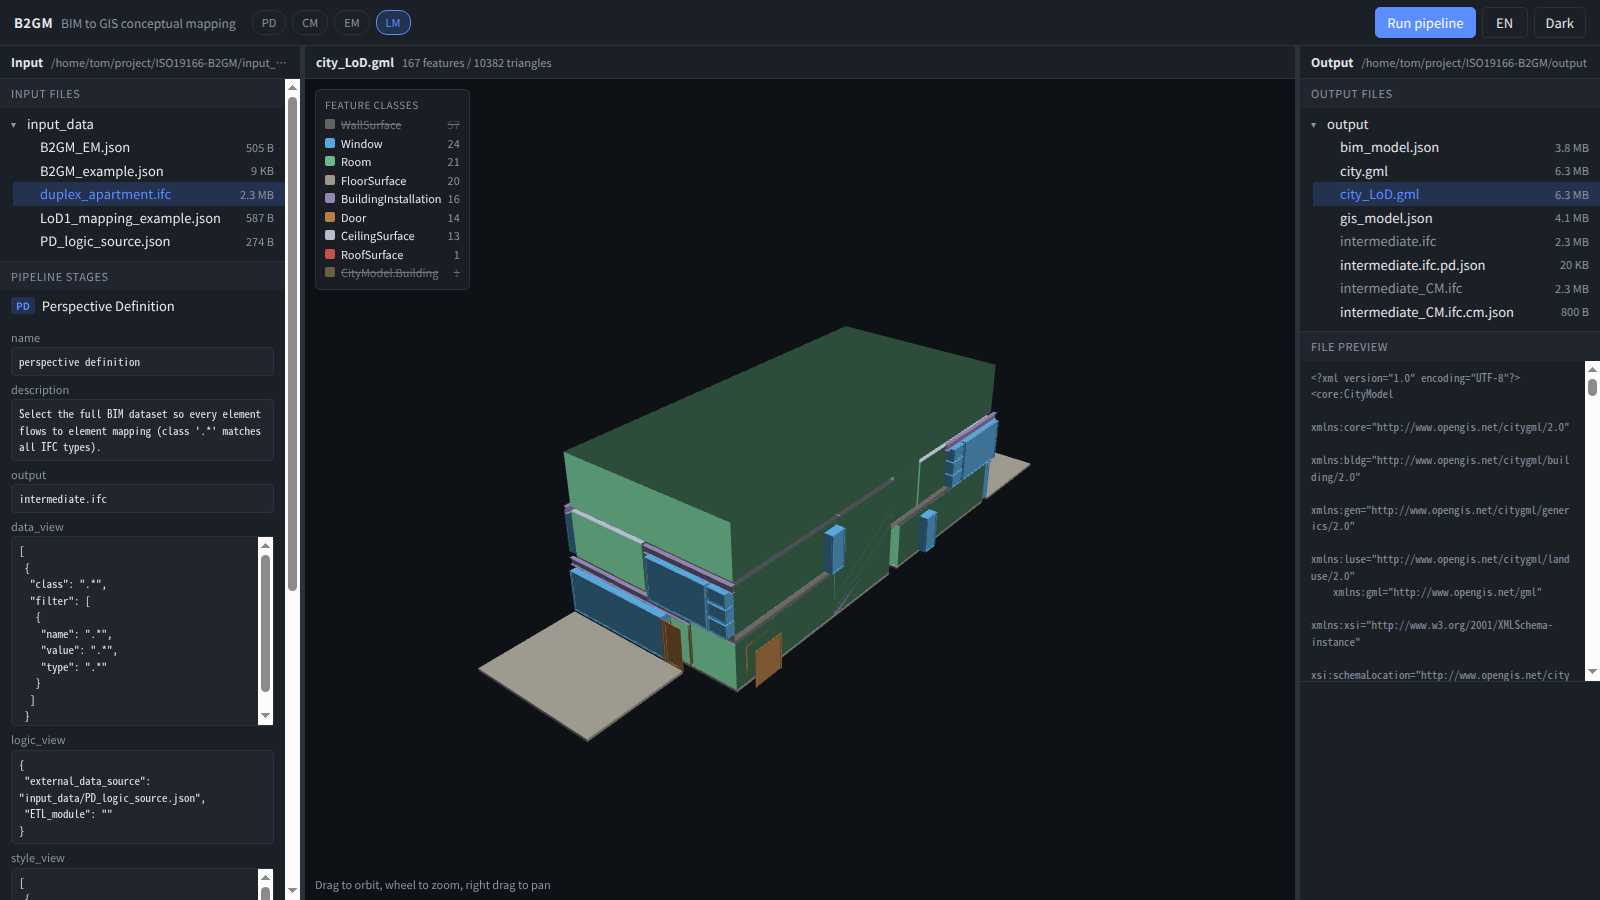
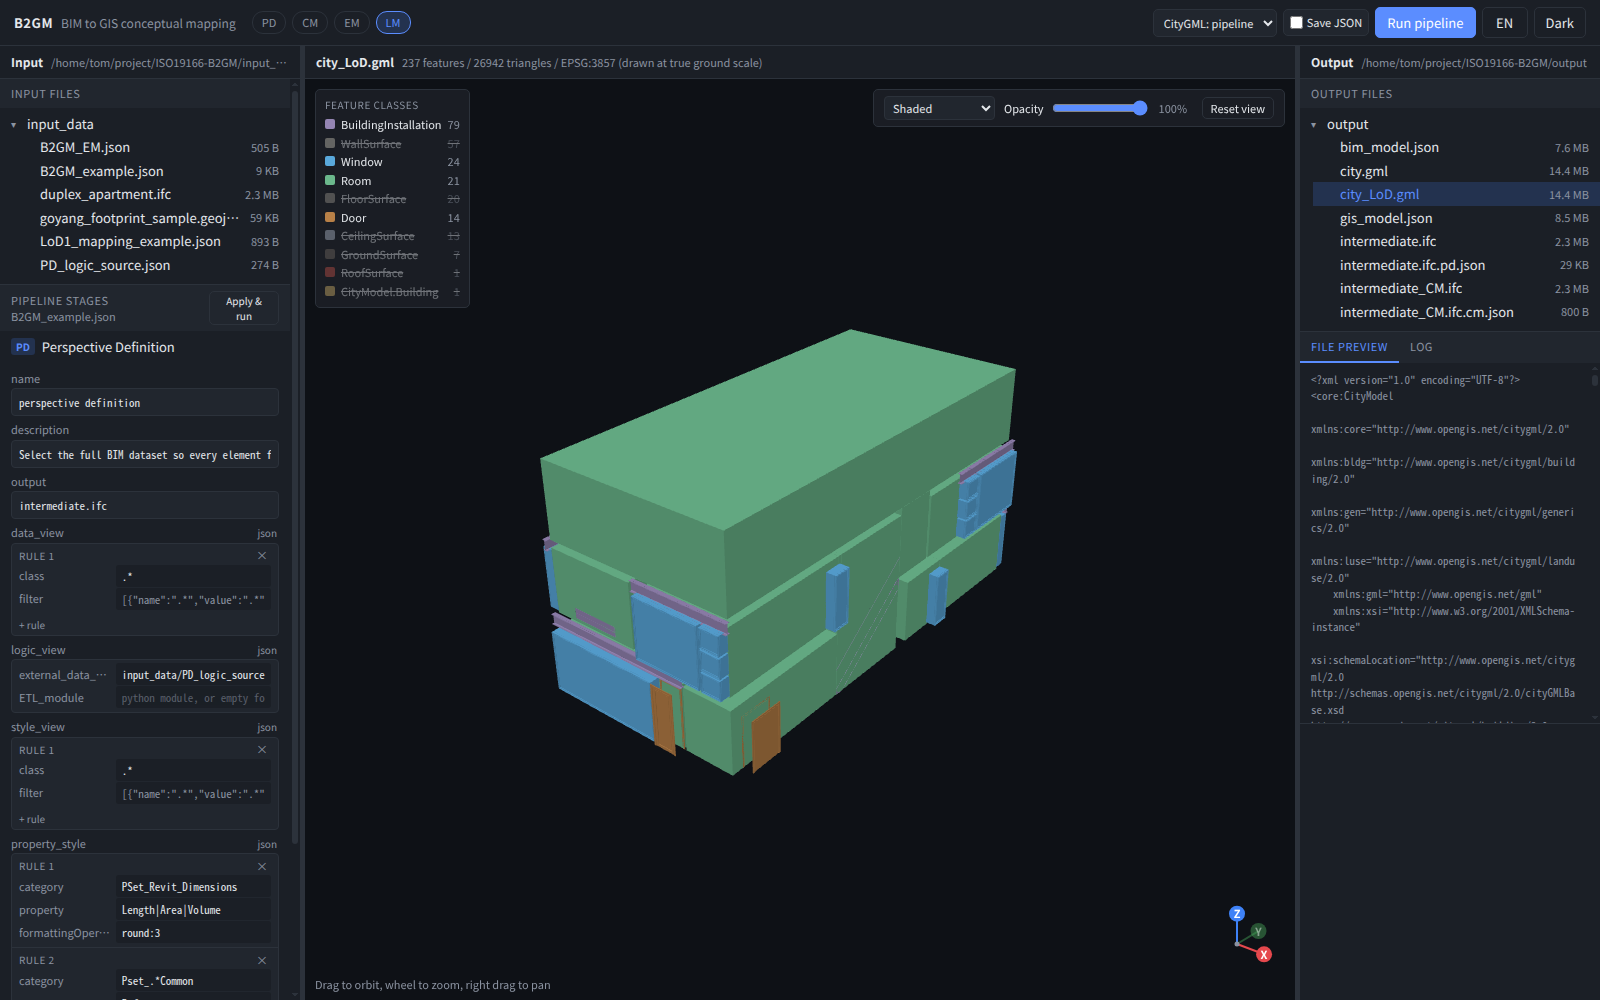
release 0.2.1: reorganise the readme around current screenshots

diff --git a/README.md b/README.md
@@ -2,17 +2,37 @@
 
 [![tests](https://github.com/mac999/ISO19166-B2GM/actions/workflows/tests.yml/badge.svg)](https://github.com/mac999/ISO19166-B2GM/actions/workflows/tests.yml)
 
+An implementation of the [ISO/TS 19166 B2GM](https://www.iso.org/standard/90943.html)
+conceptual framework: a BIM model (IFC) is mapped into a GIS model (CityGML)
+through four rule-driven stages. The rules live in a JSON file whose vocabulary
+follows the standard's UML, the output validates against the official OGC
+CityGML 2.0 and 3.0 schemas, and a browser workspace shows the source, the
+rules and the result side by side.
+
 Written by the project leader of ISO/TS 19166. This is a personal
 implementation, not an official ISO or ISO/TC 211 deliverable and not a
-conformance certification.
-
-An implementation of the [ISO/TS 19166 B2GM](https://www.iso.org/standard/90943.html) conceptual framework: mapping a BIM model (IFC) into a GIS model (CityGML) through four well-defined stages. In fact, I thought there were issues with practical application because standards like ISO often only have standard documents without providing tools. Taking this into consideration, I plan to continue updating it whenever I have time. 
+conformance certification. Standards such as this one usually ship as a document
+without a tool, which makes them hard to try out; this repository is meant to
+close that gap. If you are interested, fork and join.
 
 <p align="center">
- <img src="./doc/fig6.png" height="150"></img>
+  <img src="./doc/webview.png" width="900" alt="B2GM web view: input tree and pipeline stages on the left, the mapped CityGML model in the middle, output tree and file preview on the right"></img>
 </p>
 
-If you are interested in this project, please fork and join.
+## Contents
+
+1. [How the mapping works](#how-the-mapping-works)
+2. [Quick start](#quick-start)
+3. [What comes out](#what-comes-out)
+4. [Web view](#web-view)
+5. [Configuring the mapping](#configuring-the-mapping)
+6. [Scope](#scope)
+7. [Documentation](#documentation)
+8. [For developers](#for-developers)
+9. [Revision history](#revision-history)
+10. [Citation and author](#citation-and-author)
+
+## How the mapping works
 
 ```
  IFC (BIM)  ──►  PD  ──►  CM  ──►  EM  ──►  LM  ──►  CityGML (GIS)
@@ -26,31 +46,25 @@ If you are interested in this project, please fork and join.
 | PD    | Perspective Definition  | Select the required subset of the BIM dataset (data/logic/style views) |
 | CM    | Coordinate Mapping      | Transform source CRS → destination CRS (e.g. EPSG:4326 → EPSG:3857) |
 | EM    | Element Mapping         | Map an IFC class to its GIS/CityGML class (e.g. `IfcBuilding` → `CityModel.Building`) |
-| LM    | LoD Mapping             | Assign a GIS Level-of-Detail (LOD0…LOD4)                        |
+| LM    | LoD Mapping             | Assign a GIS Level-of-Detail (LOD0…LOD4) and regenerate the geometry with the Table 8 operators |
 
-
+Each stage reads its rules from the pipeline file and writes an intermediate
+file, so a run can be inspected stage by stage. The concept figures below are
+from the standard's development.
 
 <p align="center">
+<img src="./doc/fig6.png" height="150"></img> </br>
 <img src="./doc/fig1.JPG" height="240"> </img>  </br>
 <img src="./doc/fig5.png" height="150"> </img>
 <img src="./doc/fig4.png" height="150"> </img>  </br>
 <img src="./doc/fig7.png" height="205"> </img> </br>
-<img src="./doc/fig2.JPG" height="270"> </img> 
-</p>
-
-The pipeline also ships with a browser workspace: the input tree and the
-PD/CM/EM/LM stage properties on the left, a WebGL canvas in the middle and the
-output tree on the right. Drop an IFC on the canvas to convert it, or edit a
-stage rule and run it again. Clicking a class in the legend hides it, which is
-how you look inside the result. See [Web view](doc/web-view.md).
-
-<p align="center">
-  <img src="./doc/webview.png" width="900" alt="B2GM web view: input tree and pipeline stages, 3D canvas, output tree"></img>
-  </br>
-  <img src="./doc/webview_rooms.png" width="900" alt="The same model with the building block and wall surfaces hidden, showing the LOD1 room solids"></img>
+<img src="./doc/fig2.JPG" height="270"> </img>
 </p>
 
 ## Quick start
+
+Python 3.10 or newer. The core dependencies are ifcopenshell, pyproj, shapely,
+numpy and tqdm.
 
 ```bash
 git clone https://github.com/mac999/ISO19166-B2GM.git
@@ -62,9 +76,89 @@ python B2GM_main.py --web                     # browser workspace on localhost
 python -m pytest
 ```
 
-Results land under `output/`. Python 3.10 to 3.13 are exercised in CI; the
-sample is IFC2X3 and the test suite also runs an IFC4 model through every stage.
-A live copy of the web view runs at https://iso19166-b2gm-mac999.fly.dev.
+`pip install .` adds the `b2gm`, `b2gm-web`, `b2gm-em` and `b2gm-lm` console
+commands; `run_pipeline.sh` / `.bat` and `run_web.sh` / `.bat` are launchers for
+a clone. A live copy of the web view runs at
+https://iso19166-b2gm-mac999.fly.dev, where you can drop your own IFC on the
+canvas.
+
+Optional packages switch on more: `manifold3d` for the 3D boolean operators,
+`xmlschema` to validate the output against the OGC schemas, `xsdata` for the
+typed CityGML writer.
+
+## What comes out
+
+With the bundled sample (`input_data/duplex_apartment.ifc`, IFC2X3) and the
+example pipeline, `output/` receives:
+
+| File | Stage | Contents |
+|------|-------|----------|
+| `intermediate.ifc` + `.pd.json` | PD | the selected elements and the perspective summary |
+| `intermediate_CM.ifc` + `.cm.json` | CM | the model placed in the destination CRS; origin, true north and element count |
+| `city.gml` | EM | CityGML with every element mapped to its feature class |
+| `city_LoD.gml` | LM | the same with the LoD assigned and the operator geometry, for example a LOD1 block for the building and one for each room |
+| `bim_model.json`, `gis_model.json` | with `--save-json` | the conceptual models in the shape of the ISO 19166 XSDs |
+
+The CityGML version is a variable, not a build-time choice: `--citygml-version`
+on the command line, `"citygml_version"` in the pipeline file, or the selector in
+the web view. 3.0 keeps the building storeys as `bldg:Storey` features, which
+2.0 has no element for, and writes closed meshes as `gml:Solid`.
+
+## Web view
+
+<p align="center">
+  <img src="./doc/webview_rooms.png" width="900" alt="The same model with the building block and the wall, floor, ceiling and roof surfaces hidden from the legend, leaving the LOD1 room solids, windows and doors"></img>
+</p>
+
+`python B2GM_main.py --web` opens a three-panel workspace on the stdlib HTTP
+server, with no web framework and nothing to install beyond the core
+dependencies.
+
+- Left: the input tree and the pipeline stages. Scalars are plain fields; a
+  rule set is a property grid per rule listing the keys the standard defines
+  for that stage, with fixed choices such as `lod` and `PSet_operation` as
+  drop-downs. **Apply & run** converts the selected IFC with the edited rules.
+- Middle: a WebGL canvas. Drag to orbit, wheel to zoom, right-drag to pan; an
+  axis gizmo snaps the view; six rendering modes (shaded, shaded + edges,
+  wireframe, x-ray, flat + edges, hidden line); the legend hides a feature
+  class on click, which is how you look inside a model. A file with nothing to
+  draw shows its text here instead.
+- Right: the output tree, a file preview and the stage log.
+- Header: the CityGML version, whether to save the JSON models, and the stage
+  chips, which open a stage and show its output on the canvas.
+
+Drop an `.ifc` on the canvas, optionally with a pipeline `.json`, to convert it.
+`?theme=`, `?lang=`, `?mode=`, `?select=` and `?hide=` preset a view so it can be
+shared as a link. See [Web view](doc/web-view.md) for the routes and the
+Fly.io deployment.
+
+<p align="center">
+  <img src="./doc/webview_xray.png" width="900" alt="X-ray rendering of the LoD model in the light theme"></img>
+</p>
+
+## Configuring the mapping
+
+`input_data/B2GM_example.json` defines the stage sequence. A stage carries its
+`type`, an `output` name and its rules:
+
+```json
+{ "type": "EM", "output": "city.gml",
+  "rule": [{ "source": "IfcBuilding", "destination": "CityModel.Building" }] }
+```
+
+```json
+{ "type": "LM", "output": "city_LoD.gml",
+  "rule": [{ "source": "IfcBuilding", "lod": "LOD1", "aggregate": "IfcWall.*",
+             "operation": [{ "op": "footprint" },
+                           { "op": "extrude", "args": { "height": { "$extent": "z" } } }] }] }
+```
+
+Patterns are full-match regular expressions. The PD stage carries data, logic
+and style views and property formatting; CM carries the source and destination
+CRS, an optional transform matrix and origin; EM carries the class mapping and
+the `PSet_operation`; LM carries the LoD and an operator chain over the eleven
+Table 8 operators. [Pipeline configuration](doc/pipeline-configuration.md)
+covers every key.
 
 ## Scope
 
@@ -83,7 +177,8 @@ What this implementation does, stated so it can be checked:
 - The conceptual model classes mirror the ISO 19166 XSDs, and
   `tests/test_xsd_conformance.py` parses those XSDs to check it, so a renamed or
   missing member fails the build.
-- Core dependencies are ifcopenshell, pyproj, shapely, numpy and tqdm. MIT.
+- The parser reads every IfcProduct; which of them are mapped is the PD stage's
+  decision. IFC2X3 and IFC4 input are both exercised by the test suite.
 
 What it is **not**:
 
@@ -91,6 +186,8 @@ What it is **not**:
   conceptual mapping stages; geometry handling is deliberately simple.
 - Not a conformance test suite. The XSD check verifies this implementation, not
   a third party's.
+- CityGML output covers the Building and LandUse modules. Transportation,
+  vegetation, relief and the other thematic modules are out of scope.
 - Geometry is triangulated B-rep. A mesh is written as `gml:Solid` only when it
   actually closes, otherwise as `gml:MultiSurface`.
 - Boolean operators work on 2D geometry, or on 3D via `manifold3d` when
@@ -105,7 +202,17 @@ What it is **not**:
 | [Architecture](doc/architecture.md) | module map, ISO 19166 XSD alignment, saving the conceptual models as JSON |
 | [Web view](doc/web-view.md) | the browser workspace, upload and conversion, deploying to Fly.io |
 
-## Tests
+## For developers
+
+| Module | Role |
+|--------|------|
+| `B2GM_main.py` | pipeline orchestrator and CLI |
+| `B2GM_PD.py`, `B2GM_CM.py`, `B2GM_element.py`, `B2GM_LM.py` | the four stages |
+| `B2GM_LM_operators.py` | the Table 8 operator library |
+| `B2GM_BIM.py`, `B2GM_GIS.py`, `B2GM_citygml3.py` | IFC reader, CityGML 2.0 writer, CityGML 3.0 writer |
+| `B2GM_model.py`, `B2GM_property.py` | the conceptual model mirroring the XSDs |
+| `B2GM_web.py`, `web/` | the web view: HTTP routes, model readers, and the browser side |
+| `XSD/`, `UML/` | the standard's schemas the model classes are checked against |
 
 ```bash
 python -m pytest
@@ -113,18 +220,26 @@ python -m pytest
 
 The suite under `tests/` covers the conceptual model, every stage, the LM
 operator chains, IFC parsing for IFC2X3 and IFC4, CityGML 2.0 and 3.0 document
-structure and the end-to-end pipeline. It runs on GitHub Actions for each push
-and pull request. Tests that need optional dependencies skip when those are
-missing.
+structure, the web routes and the end-to-end pipeline. It runs on GitHub Actions
+for every push and pull request on Python 3.10, 3.12 and 3.13. Tests that need
+optional dependencies skip when those are missing.
+
+Pull requests are welcome. Keep a change to one concern, add a test next to the
+ones that cover that module, and run the suite before pushing.
 
 ## Revision history
 
 | Version | Date | Changes |
 |---------|------|---------|
+| 0.2.1 | 2026-11-08 | The IFC parser reads every product instead of a fixed type list, so furniture, footings, the roof and stair flights now reach the PD stage; the example maps them. Openings whose host has no geometry of its own (skylights in an IfcRoof aggregate) are kept as installations instead of being lost. Files without geometry open as text in the middle panel. X-ray, flat + edges and hidden line rendering. `?select=` opens a given output file. README reorganised with current screenshots. |
 | 0.2.0 | 2026-11-08 | Web view reworked: right-drag pan follows the pointer and orbits around the panned centre, two-sided lighting, axis gizmo with snap views, shaded / edges / wireframe modes, rule sets edited as property grids with the standard's keys, CityGML version and JSON save in the header, pipeline choice from the input tree, stage chips open their stage and show its output, themed scrollbars. IFC4 input covered by a fixture and regression test. GitHub Actions runs the suite on Python 3.10, 3.12 and 3.13; the package now requires 3.10 or newer, which is the oldest ifcopenshell ships wheels for. README split into doc pages behind a quick start. |
 | 0.1.0 | 2026-09-07 | First release: rule-driven PD / CM / EM / LM pipeline with all eleven Table 8 LoD operators, CM georeferencing into the destination CRS, schema-valid CityGML 2.0 and 3.0 output, web view with upload and conversion, Fly.io deployment. |
 
-# Author
-Taewook kang, Ph.D, laputa99999@gmail.com
+## Citation and author
+
+`CITATION.cff` carries the citation metadata; GitHub's "Cite this repository"
+button renders it. MIT licence.
+
+Taewook Kang, Ph.D, laputa99999@gmail.com
 
 Project leader, ISO/TC 211 ISO/TS 19166

diff --git a/doc/web-view.md b/doc/web-view.md
@@ -66,7 +66,7 @@ The conversion runs in a separate process, so a large or malformed model times
 out (180 s) rather than wedging the view. Uploads are capped at 50 MB.
 
 Clicking a class in the legend hides it, which is how you look inside the model.
-In the second screenshot at the top of this README the building block and the
+In the second screenshot in the README the building block and the
 wall surfaces are switched off, leaving the LOD1 room solids the LM operators
 produced, plus the windows and doors.
 

diff --git a/doc/architecture.md b/doc/architecture.md
@@ -85,7 +85,7 @@ is `{name, type, related}`:
 | `IfcRelAssociatesMaterial` | `material` | dependency |
 | `IfcRelDefinesByType` | `type` | generalization |
 
-For `duplex_apartment.ifc` this yields 736 relationships across 166 elements
+For `duplex_apartment.ifc` this yields 849 relationships across 245 elements
 (association / dependency / generalization), carried through to the GIS model.
 
 ```powershell
